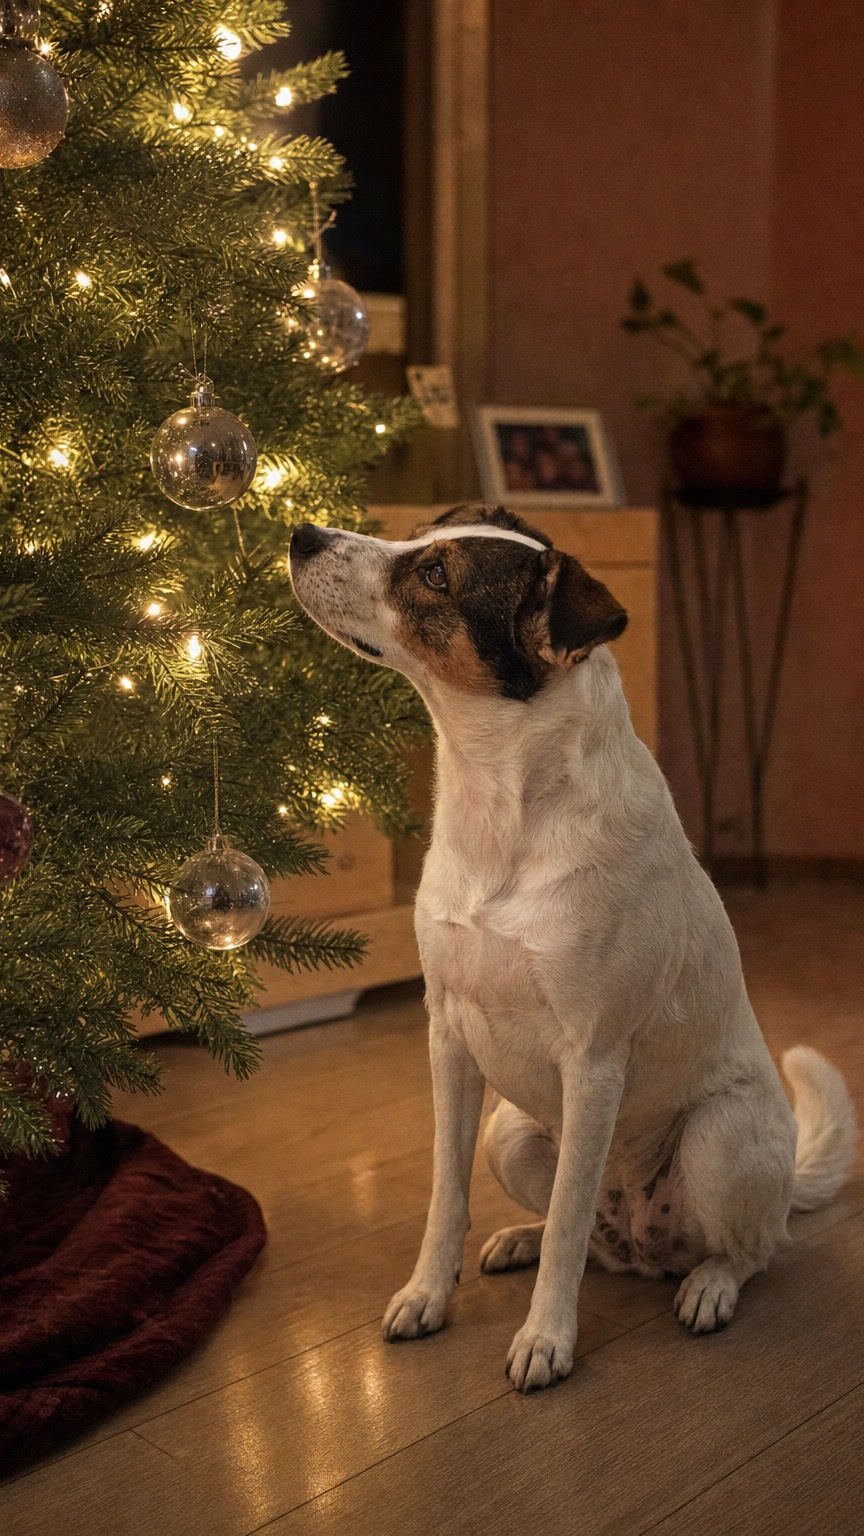
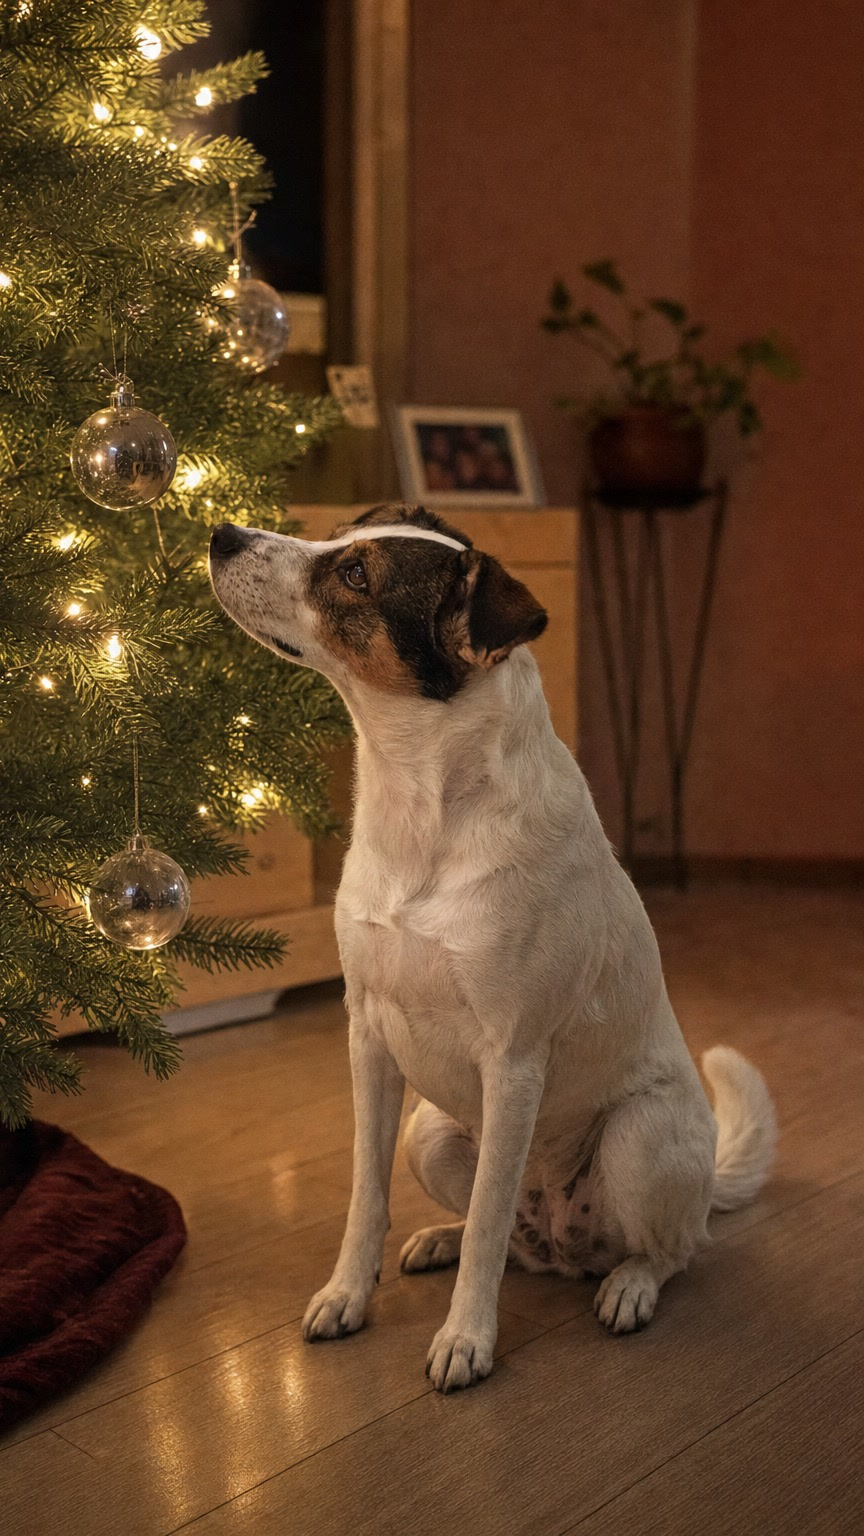
Alyha ep01: prompt de la escena 2 desde la pose real y recorte 160 en la escena 4 (cola entera)
Claude-Session: https://claude.ai/code/session_01A2ZK7YJ7XJSd28tF85uzNB

diff --git a/scripts/alyha-ep01-animate.ts b/scripts/alyha-ep01-animate.ts
@@ -42,7 +42,7 @@ const SCENES: Record<string, { frame: string; cropX: number; prompt: string }> =
     frame: "F2-rincon.jpg",
     cropX: 80,
     prompt:
-      "Subtle handheld smartphone camera. The dog slowly turns her head from the empty corner toward the camera and lowers her ears with a sad, theatrical look, then sighs. Natural motion, realistic fur, no camera cuts, no text.",
+      "Subtle handheld smartphone camera. The dog glances back toward the empty corner, then looks at the camera again, lowers her ears with a sad, theatrical look and sighs. Natural motion, realistic fur, no camera cuts, no text.",
   },
   "3": {
     frame: "F3-caja.jpg",
@@ -52,7 +52,7 @@ const SCENES: Record<string, { frame: string; cropX: number; prompt: string }> =
   },
   "4": {
     frame: "F4-arbol.jpg",
-    cropX: 80,
+    cropX: 160, // 160 = máximo a la derecha: la cola entera dentro del plano
     prompt:
       "Slow push-in toward the dog sitting next to the lit Christmas tree; fairy lights twinkle softly; the dog looks up at the empty branch, then back to the camera and tilts her head. Natural, realistic motion, no cuts, no text.",
   },
